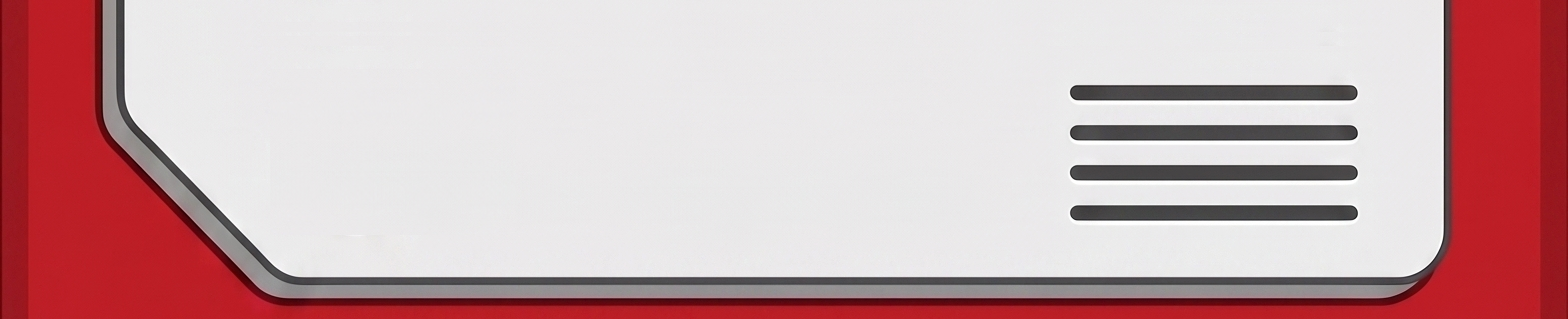
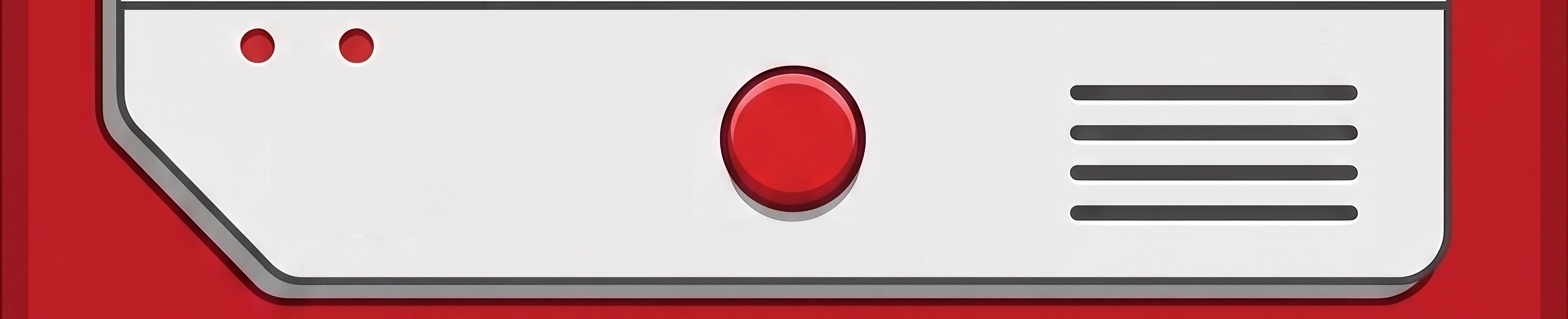
Pokédex: scrollable device shell + Pokémon list tab
- Split the frame into a fixed header (Back + tabs), a scrolling middle,
  and a fixed footer so only the list scrolls — like a real Pokédex.
- Add the "Pokémon list" tab: all 151 species, sorted by name, 3 per row,
  every sprite shown (no caught/unseen distinction). Make it the first
  tab and the default view.
- Fall back to the walk sprite when an idle gif is missing (Beedrill,
  Dragonair) so the grid never shows broken images.
- Refresh the header/footer bezel art (footer gains the red button).

diff --git a/src/screens/Pokedex/index.tsx b/src/screens/Pokedex/index.tsx
@@ -19,7 +19,7 @@ import { getSpecies } from '../../data/species';
 import type { PokemonSpecies } from '../../types/pokemon';
 import { evolutionsOf } from '../../lib/evolution';
 import { useActiveTrainer } from '../../store/gameStore';
-import { getIdleSpriteUrl } from '../../lib/sprites';
+import { getIdleSpriteUrl, getSpriteUrl } from '../../lib/sprites';
 
 import s from './Pokedex.module.css';
 
@@ -30,12 +30,45 @@ const FRAME_HEADER = `${import.meta.env.BASE_URL}pokedex_header.png`;
 const FRAME_BODY   = `${import.meta.env.BASE_URL}pokedex_body.png`;
 const FRAME_FOOTER = `${import.meta.env.BASE_URL}pokedex_footer.png`;
 
-const FRAME_STYLE = {
-  backgroundImage:    `url(${FRAME_HEADER}), url(${FRAME_FOOTER}), url(${FRAME_BODY})`,
-  backgroundRepeat:   'no-repeat, no-repeat, no-repeat',
-  backgroundPosition: 'top center, bottom center, center',
-  backgroundSize:     '100% auto, 100% auto, 100% 100%',
+// Each section paints the body cross-section (red rails + grey screen) as its
+// base so the rails stay continuous; the top/footer add their bezel cap on top.
+const TOP_BG = {
+  backgroundImage:    `url(${FRAME_HEADER}), url(${FRAME_BODY})`,
+  backgroundRepeat:   'no-repeat, no-repeat',
+  backgroundPosition: 'top center, center',
+  backgroundSize:     '100% auto, 100% 100%',
 };
+const SCROLL_BG = {
+  backgroundImage:    `url(${FRAME_BODY})`,
+  backgroundRepeat:   'no-repeat',
+  backgroundPosition: 'center',
+  backgroundSize:     '100% 100%',
+};
+const FOOTER_BG = {
+  backgroundImage:    `url(${FRAME_FOOTER}), url(${FRAME_BODY})`,
+  backgroundRepeat:   'no-repeat, no-repeat',
+  backgroundPosition: 'bottom center, center',
+  backgroundSize:     '100% auto, 100% 100%',
+};
+
+// Idle sprite with a fallback to the walk sprite — a couple of idle gifs are
+// missing from the asset set (Beedrill, Dragonair), so avoid broken images.
+function SpriteImg({ dex, name, className }: { dex: number; name: string; className: string }) {
+  return (
+    <img
+      className={className}
+      src={getIdleSpriteUrl(dex)}
+      alt={name}
+      loading="lazy"
+      onError={(e) => {
+        const im = e.currentTarget;
+        if (im.dataset.fallback) return;
+        im.dataset.fallback = '1';
+        im.src = getSpriteUrl(dex);
+      }}
+    />
+  );
+}
 
 interface Node { sp: PokemonSpecies; children: Node[]; }
 
@@ -75,7 +108,7 @@ function Disc({ sp, caught }: { sp: PokemonSpecies; caught: boolean }) {
   return (
     <div className={`${s.disc} ${caught ? s.discOn : ''}`}>
       {caught
-        ? <img className={s.sprite} src={getIdleSpriteUrl(sp.dexNumber)} alt={sp.name} />
+        ? <SpriteImg dex={sp.dexNumber} name={sp.name} className={s.sprite} />
         : <span className={s.q}>?</span>}
     </div>
   );
@@ -96,7 +129,7 @@ function MiniChip({ sp, caught }: { sp: PokemonSpecies; caught: boolean }) {
     <div className={s.mini}>
       <div className={`${s.miniDisc} ${caught ? s.discOn : ''}`}>
         {caught
-          ? <img className={s.miniSprite} src={getIdleSpriteUrl(sp.dexNumber)} alt={sp.name} />
+          ? <SpriteImg dex={sp.dexNumber} name={sp.name} className={s.miniSprite} />
           : <span className={s.miniQ}>?</span>}
       </div>
       <div className={s.nm} style={{ color: caught ? NAME_CAUGHT : NAME_UNSEEN }}>{sp.name}</div>
@@ -107,9 +140,10 @@ function MiniChip({ sp, caught }: { sp: PokemonSpecies; caught: boolean }) {
 export default function PokedexScreen() {
   const navigate = useNavigate();
   const trainer  = useActiveTrainer();
-  const [tab, setTab] = useState<'evolutions' | 'list'>('evolutions');
+  const [tab, setTab] = useState<'evolutions' | 'list'>('list');
 
   const families = useMemo(buildFamilies, []);
+  const allByName = useMemo(() => [...GEN1_SPECIES].sort((a, b) => a.name.localeCompare(b.name)), []);
   const caught = useMemo(
     () => new Set(trainer.caughtPokemon.map((p) => p.speciesId)),
     [trainer.caughtPokemon],
@@ -118,19 +152,19 @@ export default function PokedexScreen() {
 
   return (
     <div className={s.screen}>
-      <div className={s.frame} style={FRAME_STYLE} aria-hidden="true" />
-      <div className={s.content}>
+      <div className={s.deviceTop} style={TOP_BG}>
         <div className={s.header}>
           <button className={s.back} onClick={() => navigate(-1)}>← Back</button>
           <span className={s.title}>Pokédex</span>
           <span className={s.count}>{caught.size} / {total}</span>
         </div>
         <div className={s.tabs} role="tablist">
-          <button className={`${s.tab} ${tab === 'evolutions' ? s.tabOn : ''}`} role="tab" aria-selected={tab === 'evolutions'} onClick={() => setTab('evolutions')}>Evolutions</button>
           <button className={`${s.tab} ${tab === 'list' ? s.tabOn : ''}`} role="tab" aria-selected={tab === 'list'} onClick={() => setTab('list')}>Pokémon list</button>
+          <button className={`${s.tab} ${tab === 'evolutions' ? s.tabOn : ''}`} role="tab" aria-selected={tab === 'evolutions'} onClick={() => setTab('evolutions')}>Evolutions</button>
         </div>
+      </div>
 
-      <div className={s.body}>
+      <div className={s.scroll} style={SCROLL_BG}>
         {tab === 'evolutions' ? (
           <>
             {families.map((node) => {
@@ -168,14 +202,20 @@ export default function PokedexScreen() {
             })}
           </>
         ) : (
-          <div className={s.placeholder}>
-            <div className={s.placeholderIcon}>📋</div>
-            <div className={s.placeholderTitle}>Pokémon list</div>
-            <div className={s.placeholderSub}>Coming soon</div>
+          <div className={s.grid}>
+            {allByName.map((sp) => (
+              <div key={sp.id} className={s.cell}>
+                <div className={`${s.disc} ${s.discOn}`}>
+                  <SpriteImg dex={sp.dexNumber} name={sp.name} className={s.sprite} />
+                </div>
+                <div className={s.cellName}>{sp.name}</div>
+              </div>
+            ))}
           </div>
         )}
-        </div>
       </div>
+
+      <div className={s.deviceFooter} style={FOOTER_BG} aria-hidden="true" />
     </div>
   );
 }

diff --git a/src/screens/Pokedex/Pokedex.module.css b/src/screens/Pokedex/Pokedex.module.css
@@ -8,21 +8,25 @@
   position: relative;
   max-width: 420px;
   margin: 0 auto;
-  min-height: 100vh;
-  min-height: 100dvh;
+  height: 100vh;
+  height: 100dvh;
+  overflow: hidden;
+  display: flex;
+  flex-direction: column;
   background-color: #b8302a;
   font-family: 'Nunito', sans-serif;
   color: #f0f4ff;
 }
 
-/* Device frame backdrop — header cap, footer cap, stretched screen between.
-   Spans the full scroll height of the screen. Background images set inline. */
-.frame { position: absolute; inset: 0; z-index: 0; pointer-events: none; }
+/* Fixed top bezel: the header cap + the Back row and tabs overlaid on it.
+   Backgrounds (header cap + screen rails) are set inline. */
+.deviceTop { flex: 0 0 auto; position: relative; z-index: 2; padding: 12px 8% 8px; }
 
-/* Content insets past the side rails (~7%) and clears the bottom bezel (footer
-   319/1568 ≈ 20% of width). The header row + tabs overlay the top bezel; the
-   pokémon list then begins on the grey screen just below it. */
-.content { position: relative; z-index: 1; padding: 12px 8% 19%; }
+/* Scrollable middle — only this scrolls; its rails background stays put. */
+.scroll { flex: 1 1 auto; min-height: 0; overflow-y: auto; padding: 6px 8% 10px; }
+
+/* Fixed bottom bezel — height locked to the footer image's aspect ratio. */
+.deviceFooter { flex: 0 0 auto; width: 100%; aspect-ratio: 1568 / 319; }
 
 .header { display: flex; align-items: center; justify-content: space-between; gap: 8px; padding: 0 2px; }
 .back { background: #22253a; border: 1px solid #3a3d5c; border-radius: 10px; padding: 7px 12px; color: #c7cfe8; font-family: 'Nunito', sans-serif; font-size: 13px; font-weight: 800; cursor: pointer; }
@@ -63,8 +67,8 @@
 .miniQ { font-family: 'Press Start 2P', monospace; font-size: 13px; color: #6b7088; }
 .mini .nm { white-space: normal; }
 
-/* ── Pokémon list tab placeholder ── */
-.placeholder { text-align: center; padding: 48px 16px; background: rgba(18, 22, 40, 0.94); border: 1px solid #3a3d5c; border-radius: 14px; }
-.placeholderIcon { font-size: 34px; margin-bottom: 10px; }
-.placeholderTitle { font-family: 'Press Start 2P', monospace; font-size: 11px; color: #FFCB05; margin-bottom: 10px; }
-.placeholderSub { font-size: 13px; color: #8892b8; font-weight: 700; }
+/* ── Pokémon list tab — every species, 3 per row ── */
+.grid { display: grid; grid-template-columns: repeat(3, 1fr); gap: 6px 2px; }
+.cell { display: flex; flex-direction: column; align-items: center; gap: 2px; padding: 8px 0; }
+.cell .disc { margin: 0; }
+.cellName { font-size: 11px; font-weight: 800; color: #12172b; line-height: 1.2; text-align: center; }